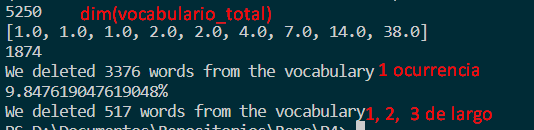
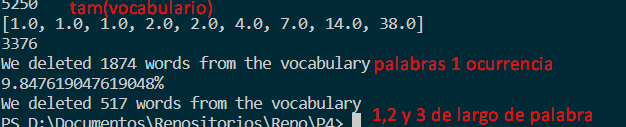
fix: logic error

Changed region(s): [[0.0, 0.0, 0.9588, 1.0]]

diff --git a/P4/p4.py b/P4/p4.py
@@ -93,7 +93,7 @@ print(deciles)
 # Se optará por eliminar solamente las palabras con 1 ocurrencia en el vocabulario.
 
 # %%
-reduced_words = {k: v for k, v in c.items() if v == 1}
+reduced_words = {k: v for k, v in c.items() if v != 1}
 print(len(reduced_words))
 print("We deleted " + str(len(labels) - len(reduced_words)) + " words from the vocabulary")
 
